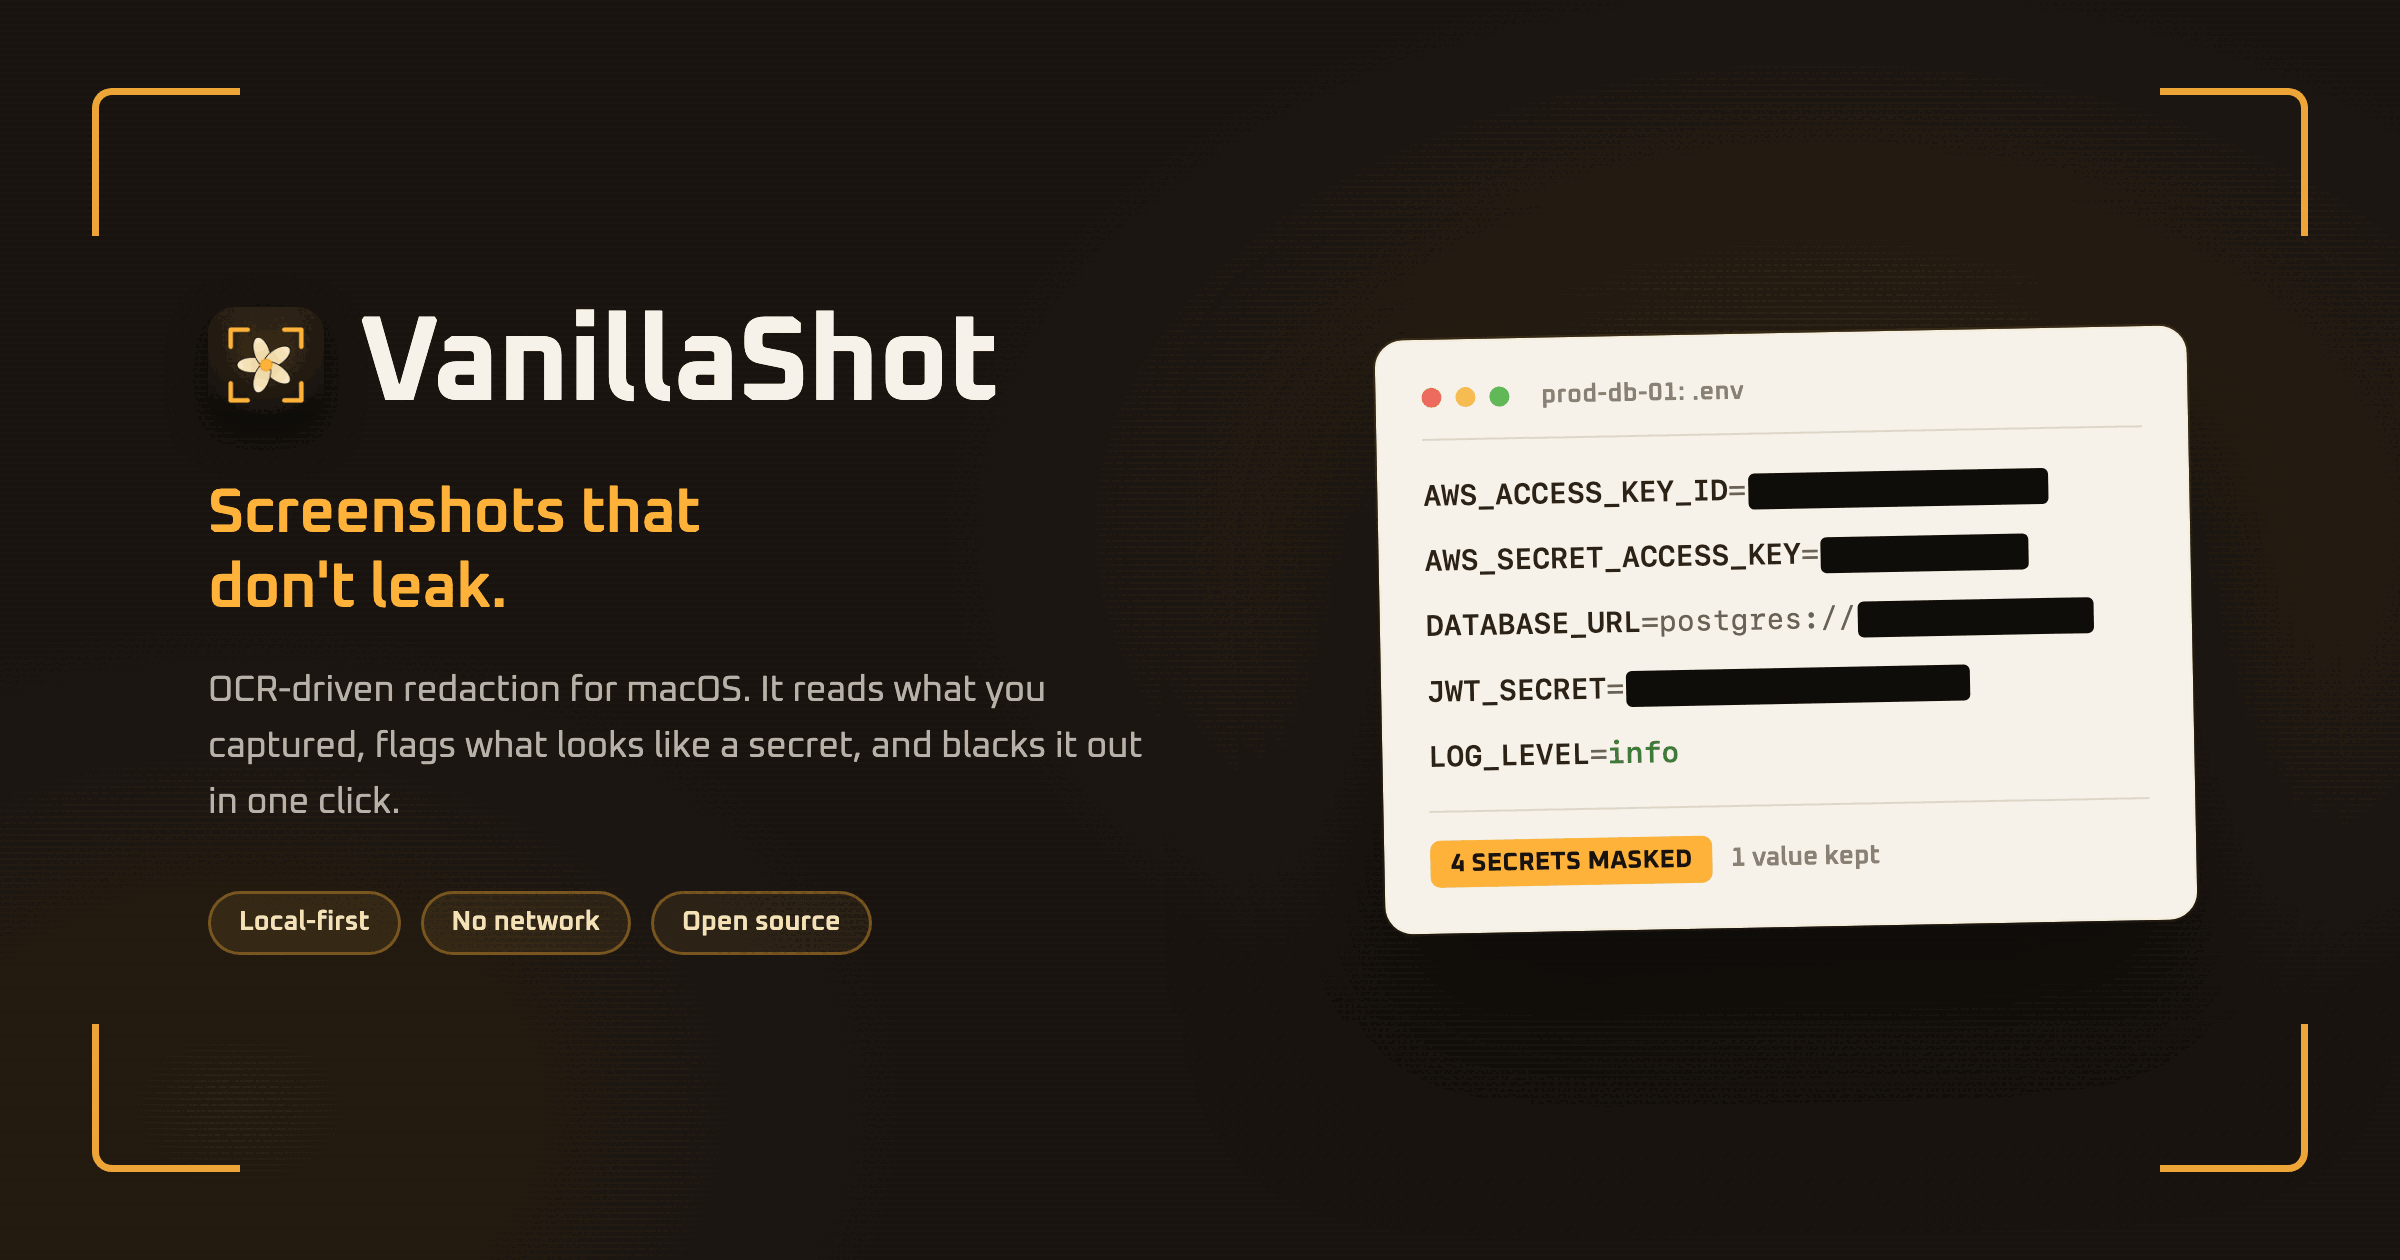
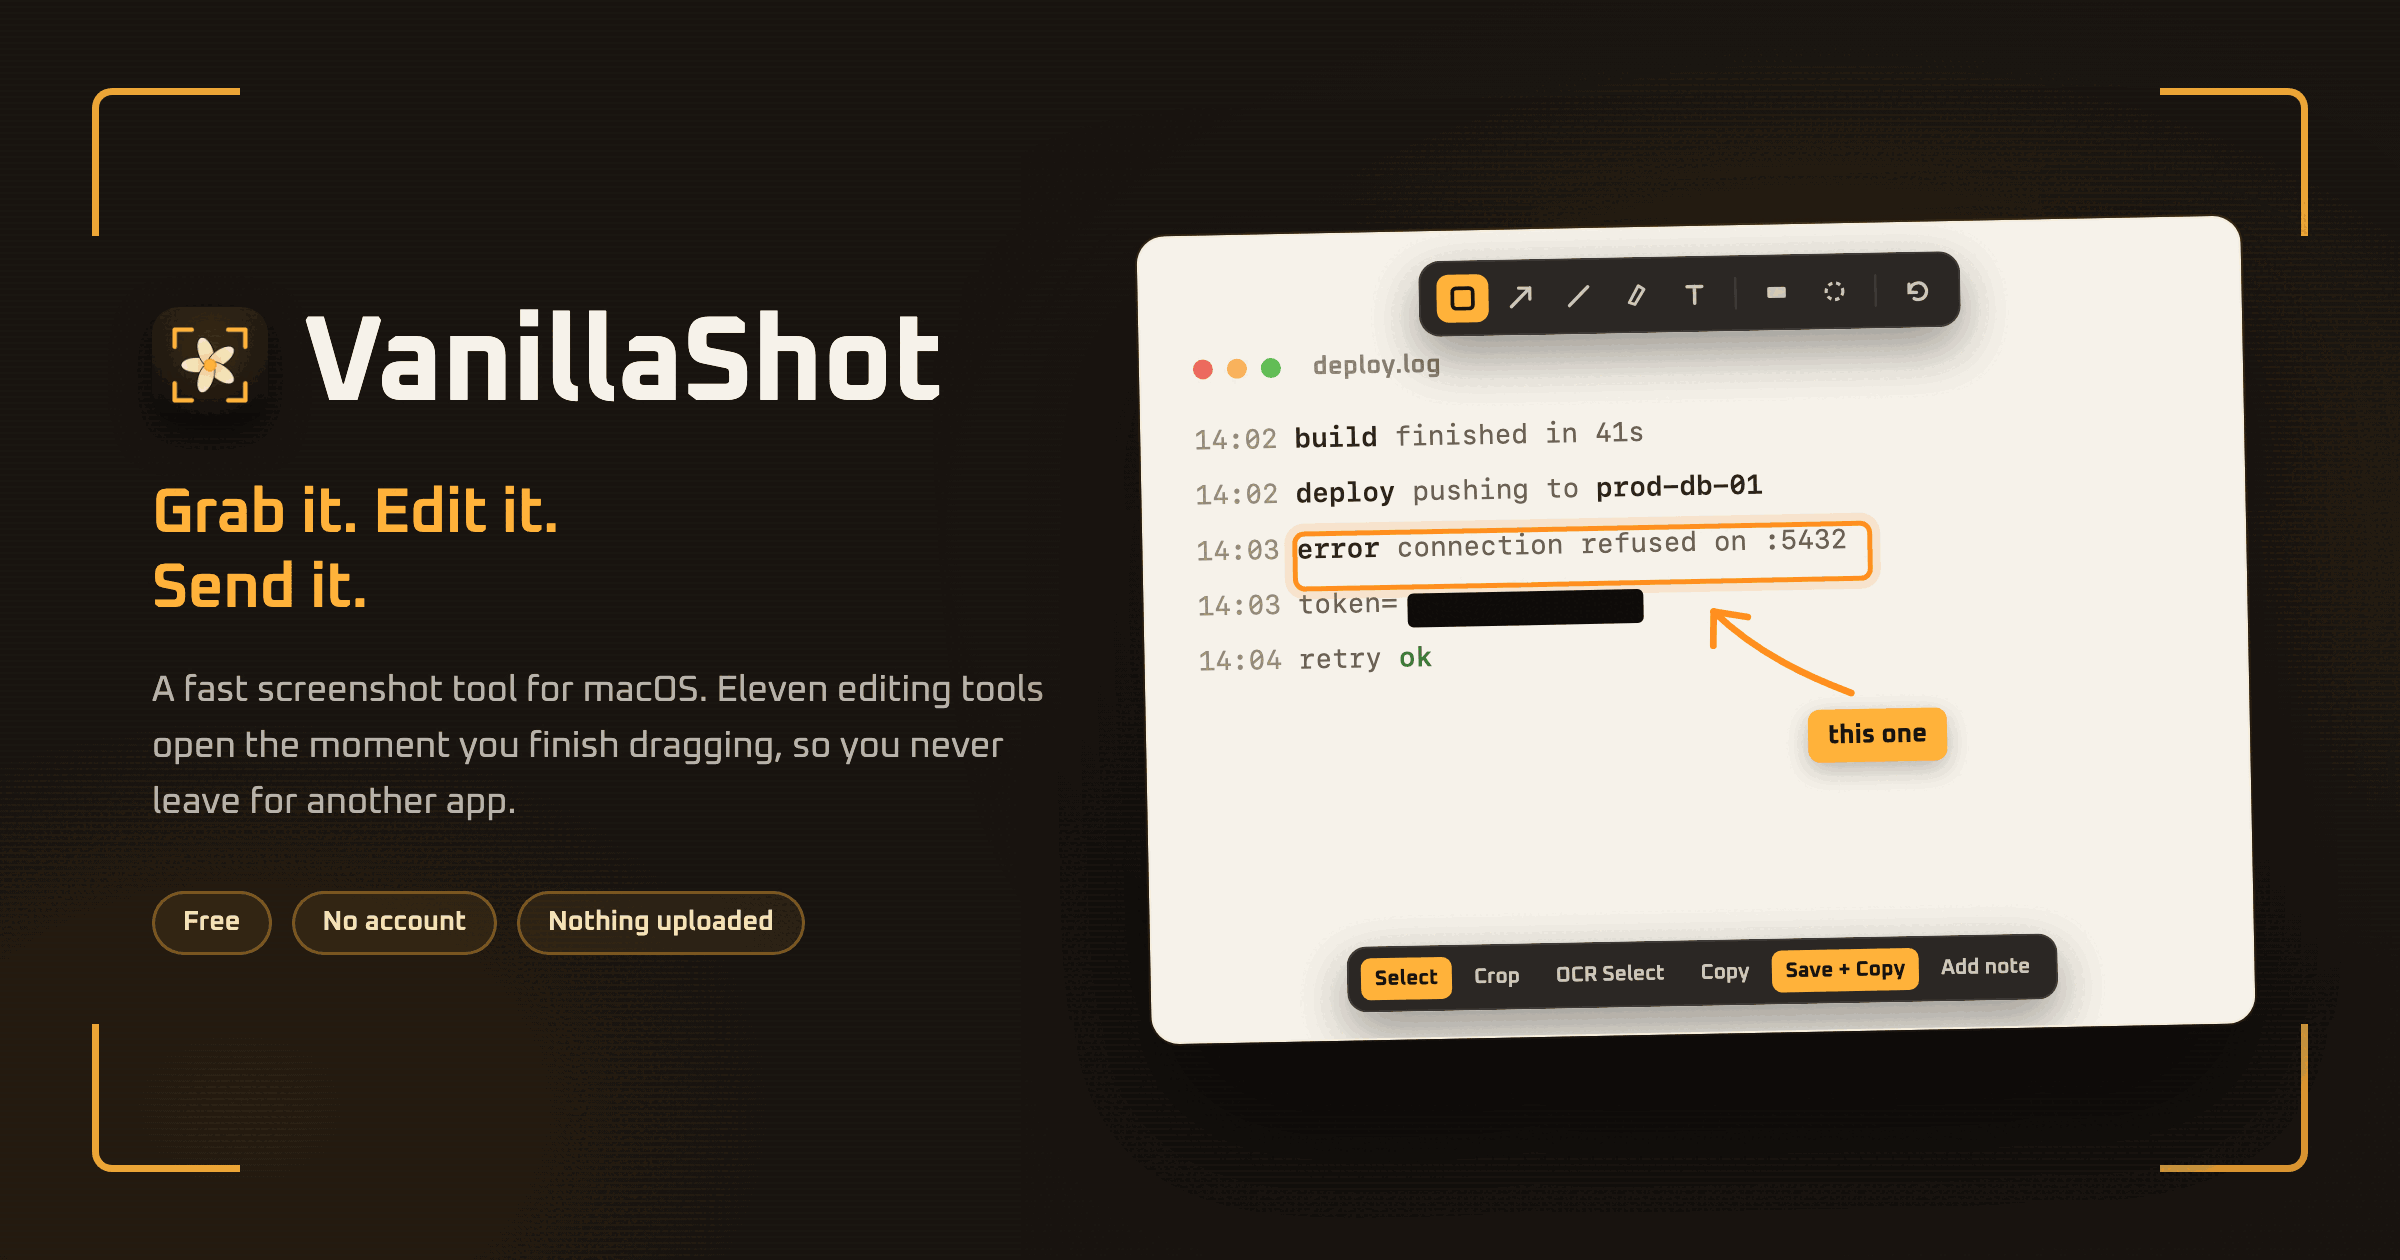
Show the editor in the header image
The header still sold the old pitch. It read "Screenshots that don't leak" over
a picture of a redacted .env file, which is a real feature but not the reason
anyone installs this, and it no longer matched a README that leads with the
editor.

The image now shows what you actually get: a captured log open in the editor,
with the tool palette and the action bar floating over it, a line boxed in
amber, an arrow and a label pointing at it, and one value blacked out.
Redaction is still in the picture, as one annotation among several rather than
the whole story.

Headline is "Grab it. Edit it. Send it." and the badges read Free, No account,
Nothing uploaded, which is the same claim the README opens with.

Rendered from docs/hero.html at the same 2400x1260 as before. Positions were
measured in the browser rather than guessed, so the box wraps the whole line
and the black bar starts exactly where the token value does.

diff --git a/docs/hero.html b/docs/hero.html
@@ -34,8 +34,8 @@ body{width:1200px;height:630px;overflow:hidden;
 .brr{bottom:44px;right:46px;border-left:0;border-top:0;border-radius:0 0 10px 0}
 
 .wrap{position:absolute;inset:0;display:flex;align-items:center;
-  padding:0 104px;gap:56px}
-.left{width:530px}
+  padding:0 76px;gap:44px}
+.left{width:452px}
 
 .mark{display:flex;align-items:center;gap:18px;margin-bottom:26px}
 .bloom{width:58px;height:58px;border-radius:13px;box-shadow:0 6px 18px rgba(0,0,0,.5)}
@@ -49,28 +49,46 @@ body{width:1200px;height:630px;overflow:hidden;
   border:1.5px solid rgba(255,178,58,.36);border-radius:999px;padding:6px 14px;
   background:rgba(255,178,58,.07)}
 
-/* the capture card: a light captured screenshot, so solid black bars
-   read instantly as redaction rather than as empty form fields */
-.card{flex:1;background:#f6f2ea;border:1px solid rgba(244,226,182,.22);
-  border-radius:14px;padding:20px 22px 22px;
+/* the editor: a light captured screenshot with the two floating bars the
+   app actually shows, so the picture says "edit it right here" */
+.shot{flex:1;position:relative;background:#f6f2ea;
+  border:1px solid rgba(244,226,182,.22);border-radius:14px;
   box-shadow:0 44px 92px rgba(0,0,0,.66), 0 0 0 1px rgba(255,178,58,.10);
-  transform:rotate(-1.1deg)}
-.bar{display:flex;align-items:center;gap:7px;margin-bottom:17px;
-  padding-bottom:13px;border-bottom:1px solid #ded6c8}
+  transform:rotate(-1.1deg);height:404px;overflow:hidden}
+.canvas{position:absolute;inset:0;padding:58px 26px 26px}
+.win{display:flex;align-items:center;gap:7px;margin-bottom:14px}
 .dot{width:10px;height:10px;border-radius:50%}
 .cap{margin-left:9px;font-size:12.5px;color:#8a8073;font-weight:600;letter-spacing:.3px}
-.line{font-family:ui-monospace,SFMono-Regular,Menlo,monospace;
-  font-size:14.5px;line-height:1.42;margin-bottom:12px;color:#6b6154;
-  display:flex;align-items:center;white-space:nowrap}
-.k{color:#2c261e;font-weight:600}
-.red{display:inline-block;background:#0f0d0b;border-radius:3px;height:18px;
-  position:relative;top:1px;margin-left:1px}
-.ok{color:#3f7a3a;font-weight:600}
-.foot{margin-top:17px;padding-top:14px;border-top:1px solid #ded6c8;
-  display:flex;align-items:center;gap:9px}
-.badge{font-size:12.5px;font-weight:700;color:#17130f;background:#ffb23a;
-  border-radius:5px;padding:4px 10px;letter-spacing:.2px}
-.ftxt{font-size:13px;color:#8a8073;font-weight:600}
+.code{font-family:ui-monospace,SFMono-Regular,Menlo,monospace;
+  font-size:13.5px;line-height:2.05;color:#6b6154;white-space:nowrap}
+.c1{color:#2c261e;font-weight:600}
+.c2{color:#9a8f7e}
+.c3{color:#3f7a3a;font-weight:600}
+.ann-box{position:absolute;left:74px;top:148px;width:290px;height:30px;
+  border:2.5px solid #ff8f1f;border-radius:6px;
+  box-shadow:0 0 0 4px rgba(255,143,31,.14)}
+.ann-arrow{position:absolute;left:272px;top:184px}
+.ann-label{position:absolute;left:330px;top:242px;font-size:13px;font-weight:700;
+  color:#17130f;background:#ffb23a;border-radius:6px;padding:5px 10px;
+  box-shadow:0 4px 12px rgba(0,0,0,.25)}
+.ann-black{position:absolute;left:131px;top:180px;width:118px;height:17px;
+  background:#0f0d0b;border-radius:3px}
+.tools{position:absolute;top:14px;left:50%;transform:translateX(-50%);
+  display:flex;align-items:center;gap:3px;
+  background:rgba(28,24,20,.93);border:1px solid rgba(255,255,255,.09);
+  border-radius:11px;padding:6px 8px;box-shadow:0 10px 26px rgba(0,0,0,.4)}
+.tool{width:26px;height:24px;display:flex;align-items:center;justify-content:center;
+  border-radius:6px}
+.tool.on{background:#ffb23a}
+.sep{width:1px;height:16px;background:rgba(255,255,255,.14);margin:0 4px}
+.actions{position:absolute;bottom:13px;left:50%;transform:translateX(-50%);
+  display:flex;align-items:center;gap:4px;
+  background:rgba(28,24,20,.93);border:1px solid rgba(255,255,255,.09);
+  border-radius:10px;padding:5px 6px;
+  box-shadow:0 10px 26px rgba(0,0,0,.4);white-space:nowrap}
+.act{font-size:10.5px;font-weight:600;color:#cfc6b8;border-radius:5px;padding:4px 7px}
+.act.on{background:#ffb23a;color:#17130f;font-weight:700}
+.act.dim{color:#8d8375}
 </style></head><body>
 <div class="glow"></div><div class="grain"></div>
 <div class="br tl"></div><div class="br tr"></div><div class="br bl"></div><div class="br brr"></div>
@@ -81,31 +99,59 @@ body{width:1200px;height:630px;overflow:hidden;
[1 lines of base64/hex data omitted]
       <div class="name">VanillaShot</div>
     </div>
-    <div class="tag">Screenshots that<br>don't leak.</div>
-    <div class="sub">OCR-driven redaction for macOS. It reads what you captured,
-      flags what looks like a secret, and blacks it out in one click.</div>
+    <div class="tag">Grab it. Edit it.<br>Send it.</div>
+    <div class="sub">A fast screenshot tool for macOS. Eleven editing tools open
+      the moment you finish dragging, so you never leave for another app.</div>
     <div class="meta">
-      <div class="pill">Local-first</div>
-      <div class="pill">No network</div>
-      <div class="pill">Open source</div>
+      <div class="pill">Free</div>
+      <div class="pill">No account</div>
+      <div class="pill">Nothing uploaded</div>
     </div>
   </div>
 
-  <div class="card">
-    <div class="bar">
-      <div class="dot" style="background:#ec6a5e"></div>
-      <div class="dot" style="background:#f4bf4f"></div>
-      <div class="dot" style="background:#61c454"></div>
-      <div class="cap">prod-db-01: .env</div>
+  <div class="shot">
+    <div class="canvas">
+      <div class="win">
+        <div class="dot" style="background:#ec6a5e"></div>
+        <div class="dot" style="background:#f4bf4f"></div>
+        <div class="dot" style="background:#61c454"></div>
+        <div class="cap">deploy.log</div>
+      </div>
+      <div class="code"><span class="c2">14:02</span>  <span class="c1">build</span> finished in 41s</div>
+      <div class="code"><span class="c2">14:02</span>  <span class="c1">deploy</span> pushing to <span class="c1">prod-db-01</span></div>
+      <div class="code"><span class="c2">14:03</span>  <span class="c1">error</span> connection refused on :5432</div>
+      <div class="code"><span class="c2">14:03</span>  token=</div>
+      <div class="code"><span class="c2">14:04</span>  retry <span class="c3">ok</span></div>
     </div>
-    <div class="line"><span class="k">AWS_ACCESS_KEY_ID</span>=<span class="red" style="width:150px"></span></div>
-    <div class="line"><span class="k">AWS_SECRET_ACCESS_KEY</span>=<span class="red" style="width:104px"></span></div>
-    <div class="line"><span class="k">DATABASE_URL</span>=postgres://<span class="red" style="width:118px"></span></div>
-    <div class="line"><span class="k">JWT_SECRET</span>=<span class="red" style="width:172px"></span></div>
-    <div class="line"><span class="k">LOG_LEVEL</span>=<span class="ok">info</span></div>
-    <div class="foot">
-      <div class="badge">4 SECRETS MASKED</div>
-      <div class="ftxt">1 value kept</div>
+
+    <div class="ann-box"></div>
+    <svg class="ann-arrow" width="90" height="58" viewBox="0 0 90 58" fill="none">
+      <path d="M80 50 C60 42 34 30 12 8" stroke="#ff8f1f" stroke-width="3.4" stroke-linecap="round"/>
+      <path d="M12 8 L11.5 25 M12 8 L29 11" stroke="#ff8f1f" stroke-width="3.4" stroke-linecap="round"/>
+    </svg>
+    <div class="ann-label">this one</div>
+    <div class="ann-black"></div>
+
+    <div class="tools">
+      <div class="tool on"><svg width="13" height="13" viewBox="0 0 14 14"><rect x="1.5" y="1.5" width="11" height="11" rx="2" fill="none" stroke="#17130f" stroke-width="2"/></svg></div>
+      <div class="tool"><svg width="13" height="13" viewBox="0 0 14 14"><path d="M2 12 L12 2 M12 2 L6 2 M12 2 L12 8" stroke="#cfc6b8" stroke-width="1.8" stroke-linecap="round" fill="none"/></svg></div>
+      <div class="tool"><svg width="13" height="13" viewBox="0 0 14 14"><path d="M2 12 L12 2" stroke="#cfc6b8" stroke-width="1.8" stroke-linecap="round"/></svg></div>
+      <div class="tool"><svg width="13" height="13" viewBox="0 0 14 14"><path d="M3 11 L8 2 L11 4 L6 12 Z" fill="none" stroke="#cfc6b8" stroke-width="1.6" stroke-linejoin="round"/></svg></div>
+      <div class="tool"><svg width="13" height="13" viewBox="0 0 14 14"><path d="M3 3 H11 M7 3 V12" stroke="#cfc6b8" stroke-width="1.9" stroke-linecap="round"/></svg></div>
+      <div class="sep"></div>
+      <div class="tool"><svg width="13" height="13" viewBox="0 0 14 14"><rect x="2" y="4" width="10" height="6" rx="1" fill="#cfc6b8"/></svg></div>
+      <div class="tool"><svg width="13" height="13" viewBox="0 0 14 14"><circle cx="7" cy="7" r="4.5" fill="none" stroke="#cfc6b8" stroke-width="1.7" stroke-dasharray="2.4 2"/></svg></div>
+      <div class="sep"></div>
+      <div class="tool"><svg width="13" height="13" viewBox="0 0 14 14"><path d="M3 4 L3 8.4 L7 8.4" stroke="#cfc6b8" stroke-width="1.8" fill="none" stroke-linecap="round"/><path d="M3.4 8 A4.5 4.5 0 1 1 5.6 11.7" stroke="#cfc6b8" stroke-width="1.8" fill="none" stroke-linecap="round"/></svg></div>
+    </div>
+
+    <div class="actions">
+      <div class="act on">Select</div>
+      <div class="act">Crop</div>
+      <div class="act">OCR Select</div>
+      <div class="act">Copy</div>
+      <div class="act on">Save + Copy</div>
+      <div class="act">Add note</div>
     </div>
   </div>
 </div>

diff --git a/README.md b/README.md
@@ -1,6 +1,6 @@
 <p align="center">
   <img src="docs/hero.png" width="840"
-       alt="VanillaShot. A captured .env file with four secret values blacked out.">
+       alt="VanillaShot. A captured log opened in the editor, with a line boxed in amber, an arrow and a label pointing at it, and one value blacked out.">
 </p>
 
 # VanillaShot
